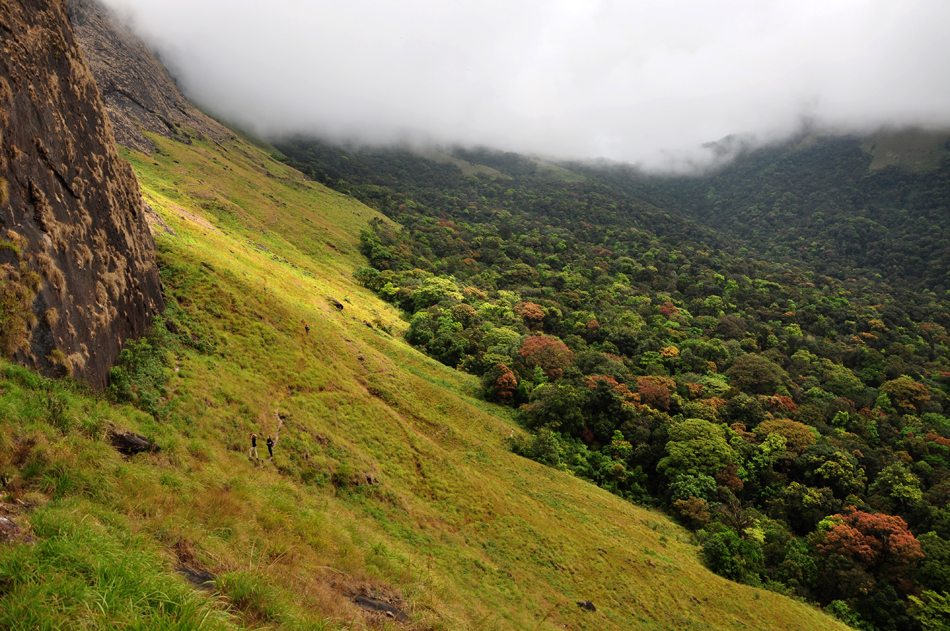
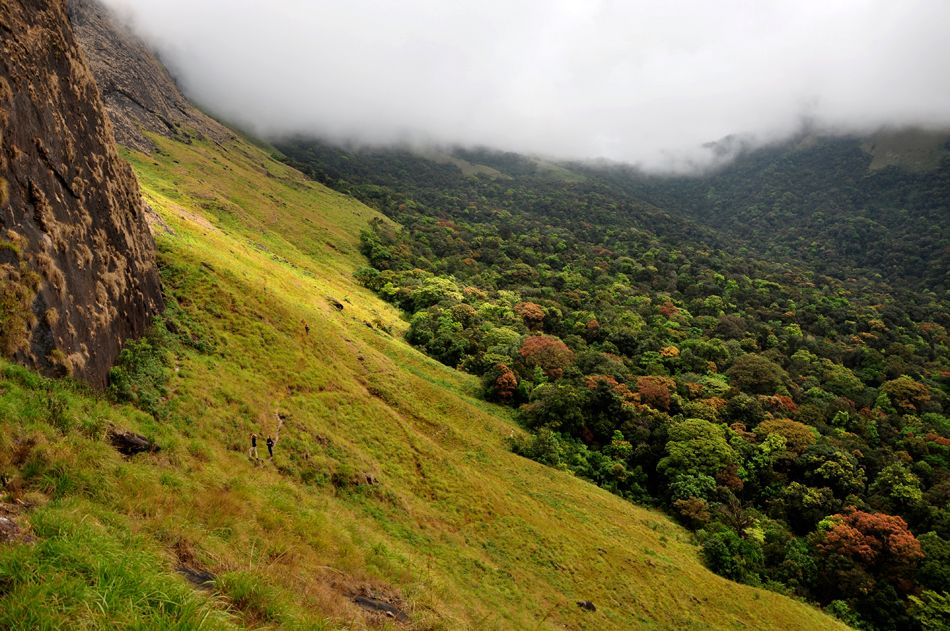
Added compressed images

diff --git a/about.html b/about.html
@@ -1,7 +1,7 @@
 <!doctype html>
 <html>
     <head>
-        <title>ForestWatch | About</title>
+        <title>Forest Watch | About</title>
         <link rel="stylesheet" type="text/css" href="css/about.css">
         <link href='http://fonts.googleapis.com/css?family=Open+Sans' rel='stylesheet' type='text/css'>
     </head>

diff --git a/contact.html b/contact.html
@@ -1,7 +1,7 @@
 <!doctype html>
 <html>
     <head>
-        <title>Contact</title>
+        <title>Forest Watch | Contact</title>
         <link rel="stylesheet" type="text/css" href="css/contact.css">
         <link href='http://fonts.googleapis.com/css?family=Open+Sans' rel='stylesheet' type='text/css'>
     </head>
